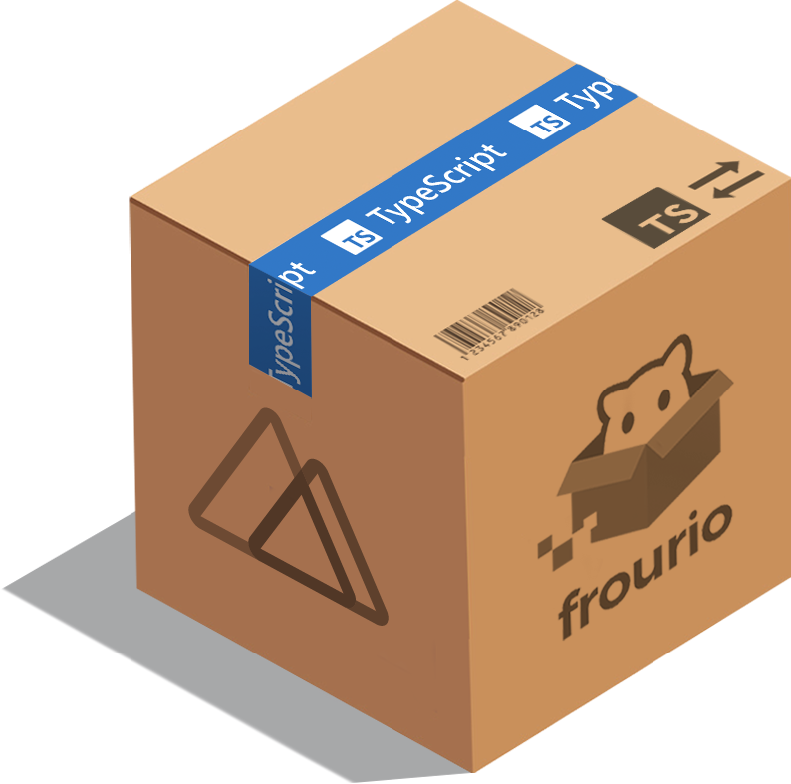
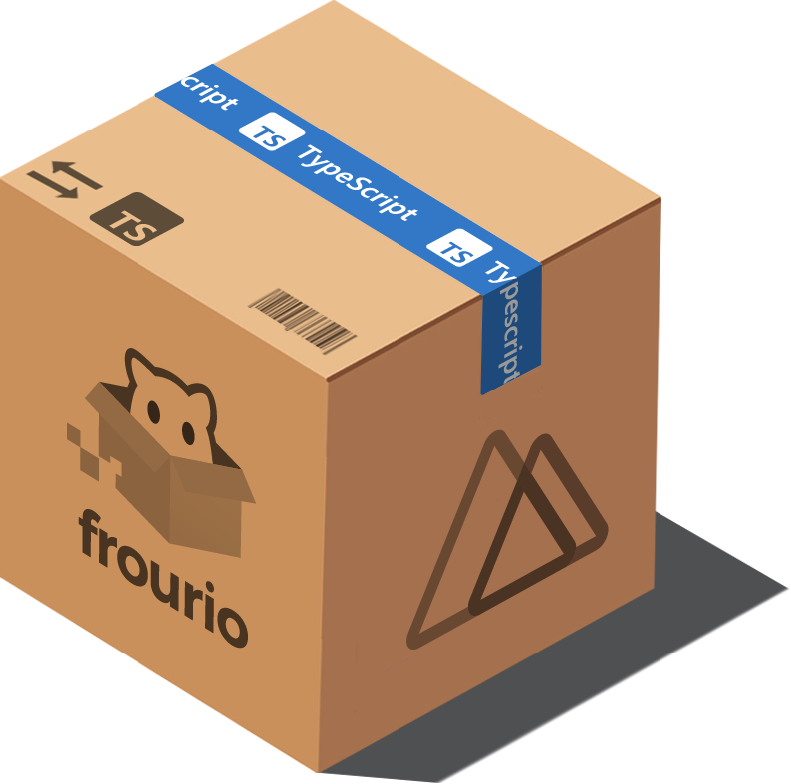
#48 ファーストビューを左右反転 (#50)
* feat: flip moving boxes

* feat: change title color

* feat: add empty boxes to image

diff --git a/src/components/movingBoxes.module.css b/src/components/movingBoxes.module.css
@@ -13,8 +13,8 @@
     min-height: 100vh;
     height: calc(100vw / 16 * 9);
     top: 50%;
-    left: 50%;
-    transform: translate(-50%, -50%);
+    left: 0;
+    transform: translate(0%, -50%);
 }
 
 .background {
@@ -27,12 +27,12 @@
     position: absolute;
     height: 100%;
     width: 100%;
-    background: linear-gradient(270deg, rgba(0, 0, 0, 0.0) 50%, rgba(0, 0, 0, 0.3) 100%);
+    background: linear-gradient(90deg, rgba(0, 0, 0, 0.0) 50%, rgba(0, 0, 0, 0.3) 100%);
 }
 
 .box {
     position: absolute;
-    left: 10%;
+    right: 10%;
     top: -30%;
     height: 31%;
     width: auto;
@@ -41,72 +41,72 @@
 
 @keyframes conveyor {
     2% {
-        left: 10%;
+        right: 10%;
         top: -30%;
         height: 31%;
     }
     3% {
-        left: 10%;
+        right: 10%;
         top: -9.7%;
         height: 30.9%;
     }
     3.6% {
-        left: 10%;
+        right: 10%;
         top: -10%;
         height: 30.9%;
     }
     5% {
-        left: 10%;
+        right: 10%;
         top: -10%;
         height: 30.9%;
     }
     10% {
-        left: 30%;
+        right: 30%;
         top: 8.6%;
         height: 32.5%;
     }
     15% {
-        left: 30%;
+        right: 30%;
         top: 8.6%;
         height: 32.5%;
     }
     20% {
-        left: 50%;
+        right: 50%;
         top: 27.2%;
         height: 34.1%;
     }
     25% {
-        left: 50%;
+        right: 50%;
         top: 27.2%;
         height: 34.1%;
     }
     30% {
-        left: 70%;
+        right: 70%;
         top: 45.8%;
         height: 35.7%;
     }
     35% {
-        left: 70%;
+        right: 70%;
         top: 45.8%;
         height: 35.7%;
     }
     40% {
-        left: 90%;
+        right: 90%;
         top: 64.4%;
         height: 37.3%;
     }
     45% {
-        left: 90%;
+        right: 90%;
         top: 64.4%;
         height: 37.3%;
     }
     50% {
-        left: 110%;
+        right: 110%;
         top: 83.2%;
         height: 38.9%;
     }
     100% {
-        left: 110%;
+        right: 110%;
         top: 83.2%;
         height: 38.9%;
     }

diff --git a/src/components/MovingBoxes.tsx b/src/components/MovingBoxes.tsx
@@ -18,11 +18,11 @@ const MovingBoxes: React.FC = () => {
             alt="box"
             className={clsx(classes.box)}
             key={`box${i}`}
-            style={{ animationDelay: `${6 * i}s` }}
+            style={{ animationDelay: `${-6 * i}s` }}
           />
         ))}
+        <div className={classes.shadow} />
       </div>
-      <div className={classes.shadow} />
     </div>
   )
 }
@@ -34,9 +34,9 @@ const boxList = [
   'MySQL',
   'Next',
   'Nuxt',
-  'FrourioChan',
+  'Open',
+  'Prisma',
   'React',
-  'Sapper',
   'Vue'
 ]
 

diff --git a/src/pages/styles.module.css b/src/pages/styles.module.css
@@ -7,7 +7,7 @@
 
 .heroBanner {
   display: flex;
-  align-items: flex-end;
+  align-items: flex-start;
   height: calc(100vh - 60px);
   padding: 3rem 2rem;
   position: relative;
@@ -24,14 +24,15 @@
 
 .container {
   z-index: 10;
+  margin-left: 0;
 }
 
 .heroTitle {
   font-size: 52px;
   line-height: 60px;
-  color: white;
+  color: #242628;
   margin: 0;
-  text-shadow: -1px 1px #333;
+  text-shadow: 1px 1px 3px #fff;
 }
 
 .heroTitleBold {
